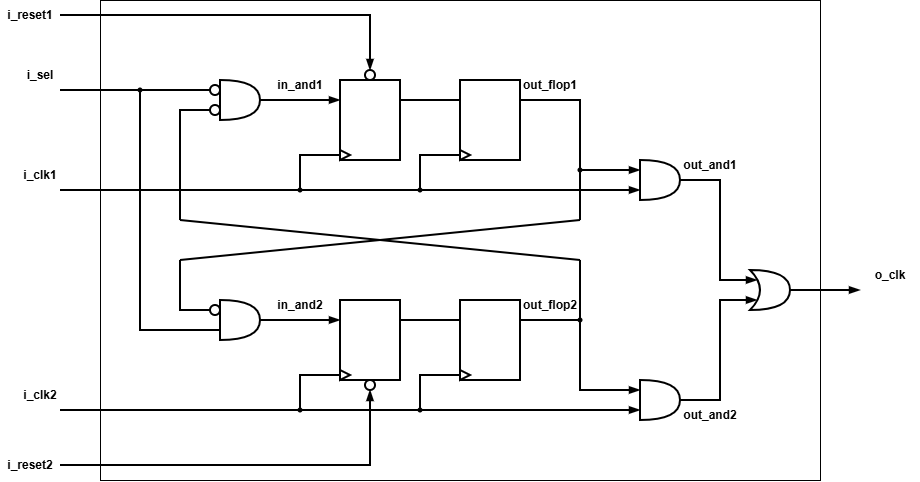
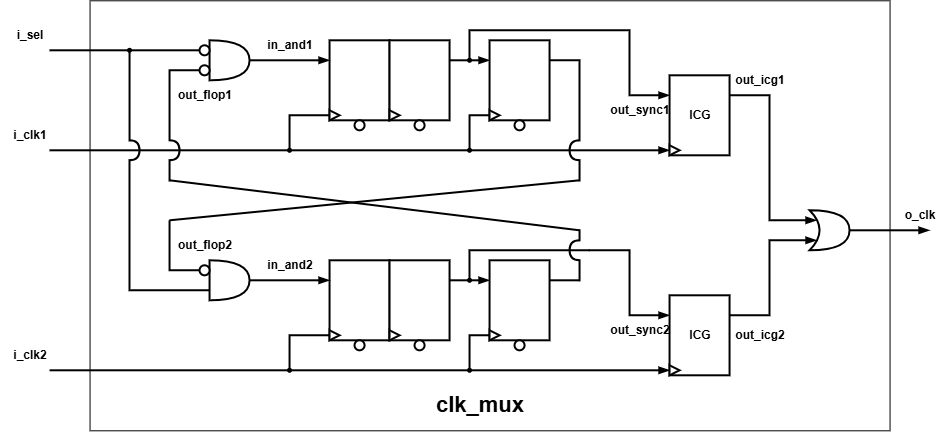
Update clk_mux: Add 2-stage synchronizers, clock gating, and update TB/SDC/README

diff --git a/ip/clk_mux/README.md b/ip/clk_mux/README.md
@@ -10,11 +10,12 @@
 
 ## 1. Overview
 
-The `clk_mux` is a highly reliable, glitch-free clock multiplexer designed to safely switch between two asynchronous clock domains. By utilizing a cross-coupled feedback topology, it guarantees that the output clock remains clean and free of spurious edges (glitches) even when the clock select signal toggles randomly or when the clock domains operate at entirely different frequencies.
+The `clk_mux` is a highly reliable, glitch-free clock multiplexer designed to safely switch between two asynchronous clock domains. By utilizing a cross-coupled feedback topology combined with multi-stage synchronizers and clock gating cells, it guarantees that the output clock remains clean and free of spurious edges (glitches) or metastability, even when the clock select signal toggles randomly across entirely different frequencies.
 
 ### 1.1 Features
 
-- **Glitch-Free Switching:** Ensures safe transitions between two asynchronous clock sources without generating runt pulses or glitches on the output.
+- **Glitch-Free Switching:** Uses integrated clock gating (ICG) to ensure safe transitions between two asynchronous clock sources without generating runt pulses.
+- **Metastability Protection:** Incorporates 2-stage synchronizers on the cross-coupled feedback paths to safely handle asynchronous `i_sel` toggling.
 - **Dual Independent Resets:** Features dedicated active-low asynchronous resets for each clock domain, supporting staggered and independent reset sequencing.
 - **Fully Asynchronous Support:** Safely handles clock sources with vastly different periods and phases.
 
@@ -43,18 +44,19 @@ The `clk_mux` is a highly reliable, glitch-free clock multiplexer designed to sa
 
 ## 3. Functional Description
 
-### 3.1 Cross-Coupled Feedback (Glitch Prevention)
+### 3.1 Cross-Coupled Feedback & Synchronization (Metastability Prevention)
 
-The core mechanism of the `clk_mux` relies on the combinational logic signals `in_and1` and `in_and2`. The selection of a new clock is gated by the inverted state of the previously active clock's synchronization flop (`!out_flop2` or `!out_flop1`). This interdependent feedback loop mathematically guarantees that one clock path is entirely disabled and flushed before the new clock path is allowed to propagate to the output OR-gate.
+The core mechanism of the `clk_mux` relies on an interdependent feedback loop. The selection of a new clock is gated by the inverted state of the previously active clock's synchronization flop (`!out_flop2` or `!out_flop1`). To prevent metastability when crossing clock domains, these gated selection signals (`in_and1`, `in_and2`) are passed through 2-stage synchronizers (`synchronizer1`, `synchronizer2`) before being registered. This guarantees that one clock path is entirely disabled and flushed before the new clock path is allowed to propagate.
 
-### 3.2 Clock Selection Behavior
+### 3.2 Clock Gating and Selection Behavior
 
-- When `i_sel = 0`: The `i_clk2` path is disabled. `out_flop1` samples a high state, allowing `i_clk1` to pass through `out_and1` to `o_clk`.
-- When `i_sel = 1`: The `i_clk1` path is disabled. `out_flop2` samples a high state, allowing `i_clk2` to pass through `out_and2` to `o_clk`.
+To ensure absolute glitch-free operation, the synchronized enable signals are fed into dedicated clock gating modules (`clk_gate1`, `clk_gate2`). 
+- When `i_sel = 0`: The `i_clk2` path is disabled via its clock gate. `out_sync1` goes high, enabling `clk_gate1` to cleanly pass `i_clk1` to the output OR-gate.
+- When `i_sel = 1`: The `i_clk1` path is disabled. `out_sync2` goes high, enabling `clk_gate2` to cleanly pass `i_clk2` to the output OR-gate.
 
 ### 3.3 Independent Domain Resets
 
-The module contains two independent `always` blocks driven by their respective asynchronous resets (`i_reset1` and `i_reset2`). This allows the SoC to safely reset one clock domain while the other is actively transmitting to `o_clk`, which is a common scenario during staggered wake-up sequences across power domains.
+The module contains distinct sequential blocks and synchronizers driven by their respective asynchronous resets (`i_reset1` and `i_reset2`). This allows the SoC to safely reset one clock domain while the other is actively transmitting to `o_clk`, which is a common scenario during staggered wake-up sequences across power domains.
 
 ## 4. Usage
 
@@ -65,7 +67,7 @@ The module contains two independent `always` blocks driven by their respective a
 
 ### 4.2 Operation Guide
 
-To switch clocks during runtime, toggle the `i_sel` pin. The IP automatically handles the safe de-assertion of the current clock, waits for the logic to clear, and seamlessly asserts the new clock. Users do not need to pause or gate the clocks externally before toggling `i_sel`.
+To switch clocks during runtime, toggle the `i_sel` pin. The IP automatically handles the safe de-assertion of the current clock, waits for the logic to clear through the synchronizers, and seamlessly asserts the new clock. Users do not need to pause or gate the clocks externally before toggling `i_sel`.
 
 ## 5. Verification
 
@@ -81,8 +83,8 @@ To switch clocks during runtime, toggle the `i_sel` pin. The IP automatically ha
 |---|---|
 | Library | Nangate45 |
 | Frequency | 100 MHz (`i_clk1`) / 62.5 MHz (`i_clk2`) |
-| Cell Count | 9 |
-| Cell Area | 30.324 |
+| Cell Count | 17 |
+| Cell Area | 52.136 |
 | WNS | 0.00 ns |
 
 ## 7. Notes
